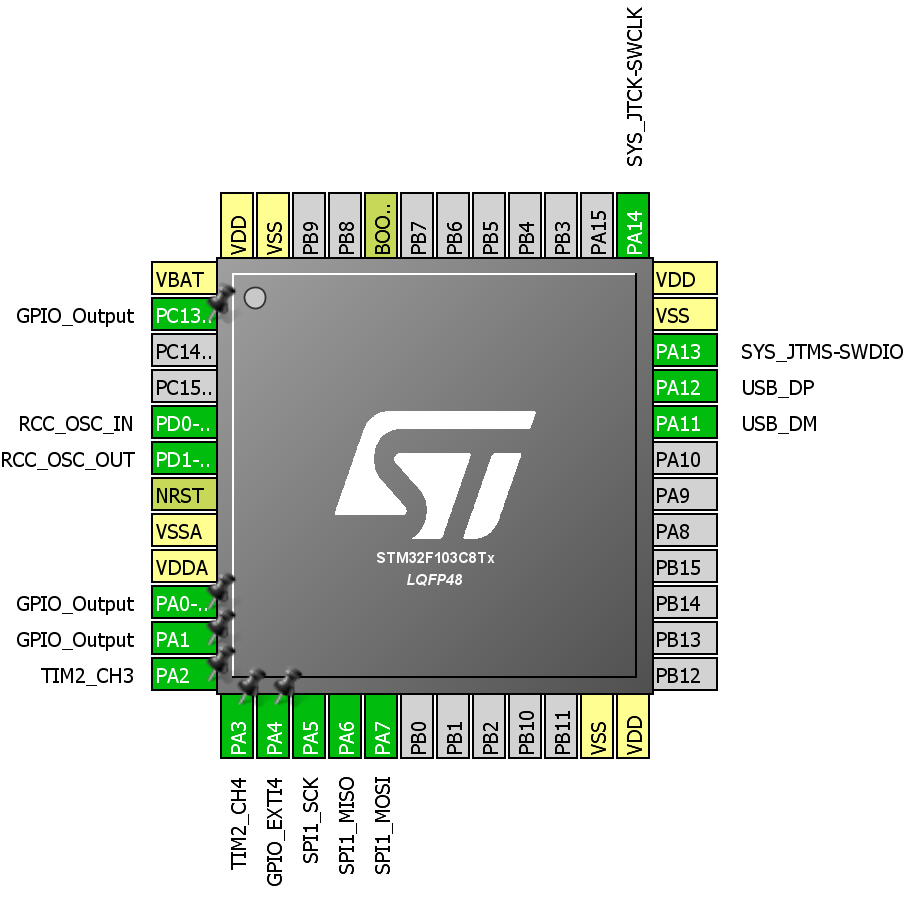
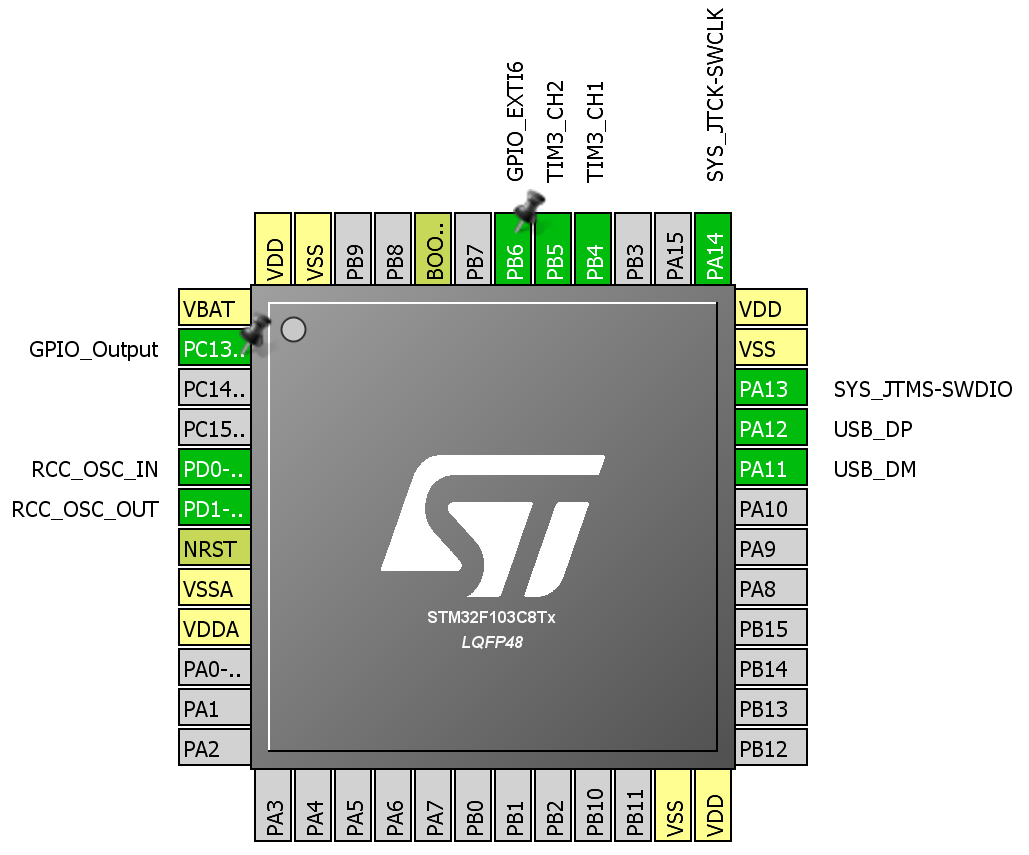
v0.8 I've corrected connection schema and pinout picture

Changed region(s): [[0.0, 0.0, 1.0, 1.0]]

diff --git a/README.md b/README.md
@@ -11,7 +11,9 @@ This project was implemented using project from http://ep.com.pl
 There is better schematic with level converter.
 HC-SR04 works better with 5V voltage.
 I cannot observ false detections like in case of using 3.3V only.
-<img src='STM32F103C8T6_HC-SR04 v2.png' />
+I've connected HC-SR04 to port B because this port is 5V tollerant.
+Port A cannot tolerate 5V.
+<img src='STM32F103C8T6_HC-SR04 v3.png' />
 
 The pinout view from STM32CubeMX:
 <img src='STM32F103C8T6_pinout.png' />
